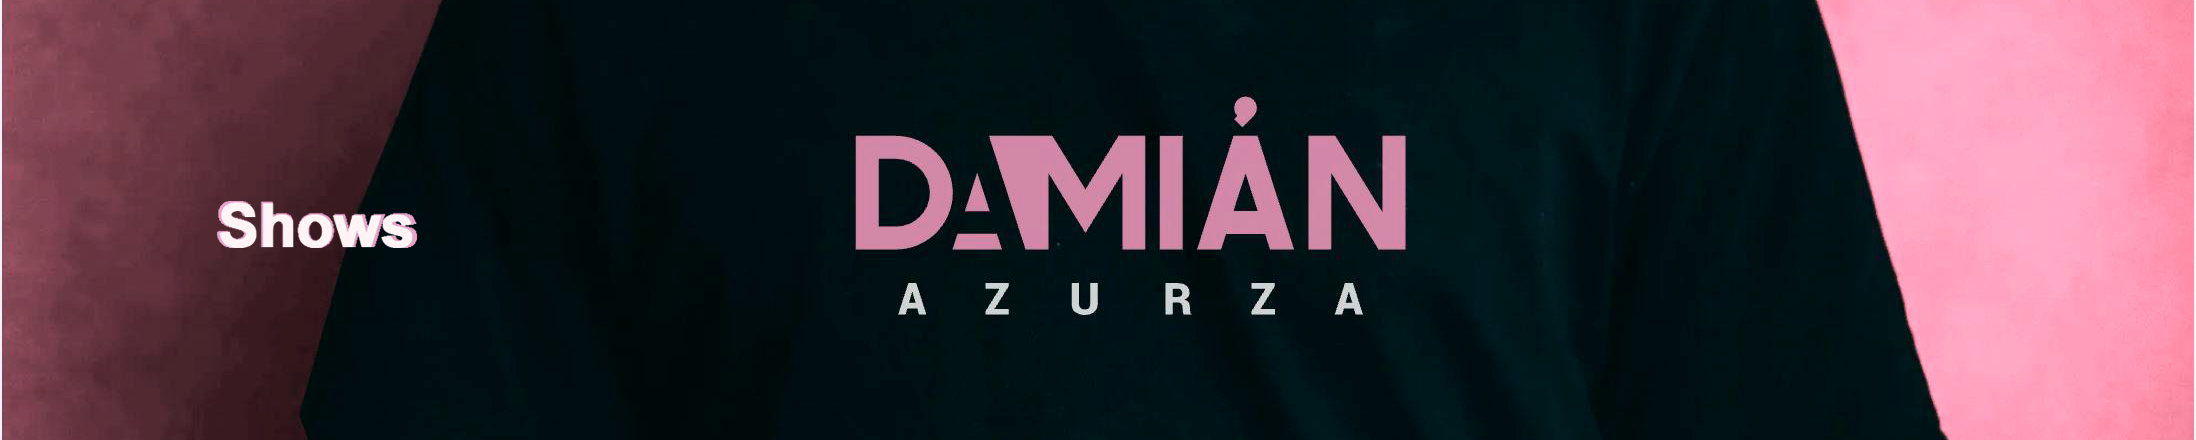
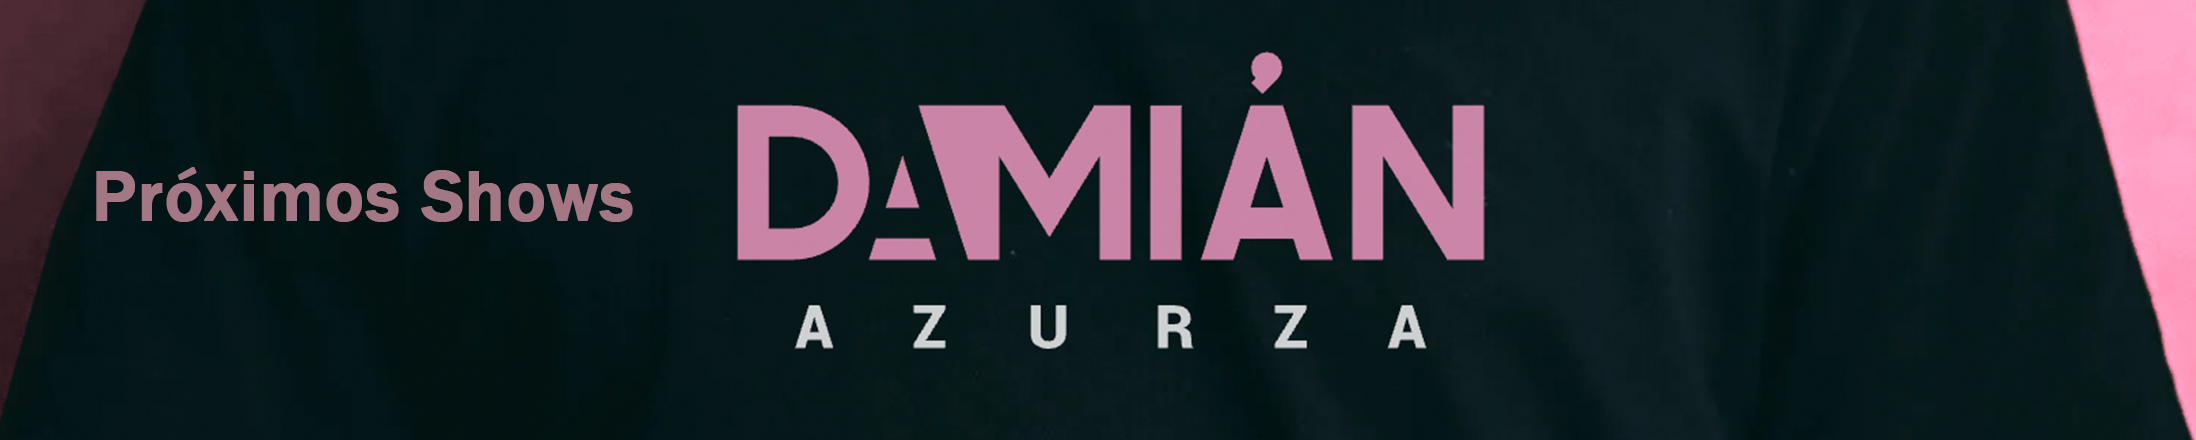
cambios en imagenes

diff --git a/DamianAzurza/src/Components/FotosComponent.jsx b/DamianAzurza/src/Components/FotosComponent.jsx
@@ -1,8 +1,8 @@
 import React from 'react';
 import { useNavigate } from 'react-router-dom'; // Asumiendo que estás usando React Router para la navegación
-import uno from '../assets/dami.jpeg'; // Reemplaza con la ruta correcta de tus imágenes
+import uno from '../assets/dami.jpg'; // Reemplaza con la ruta correcta de tus imágenes
 import dos from '../assets/onlylovers.jpeg';
-import tres from '../assets/guitarraVioleta.png';
+import tres from '../assets/guitarraBanner.png';
 
 
 const FotosComponent = () => {
